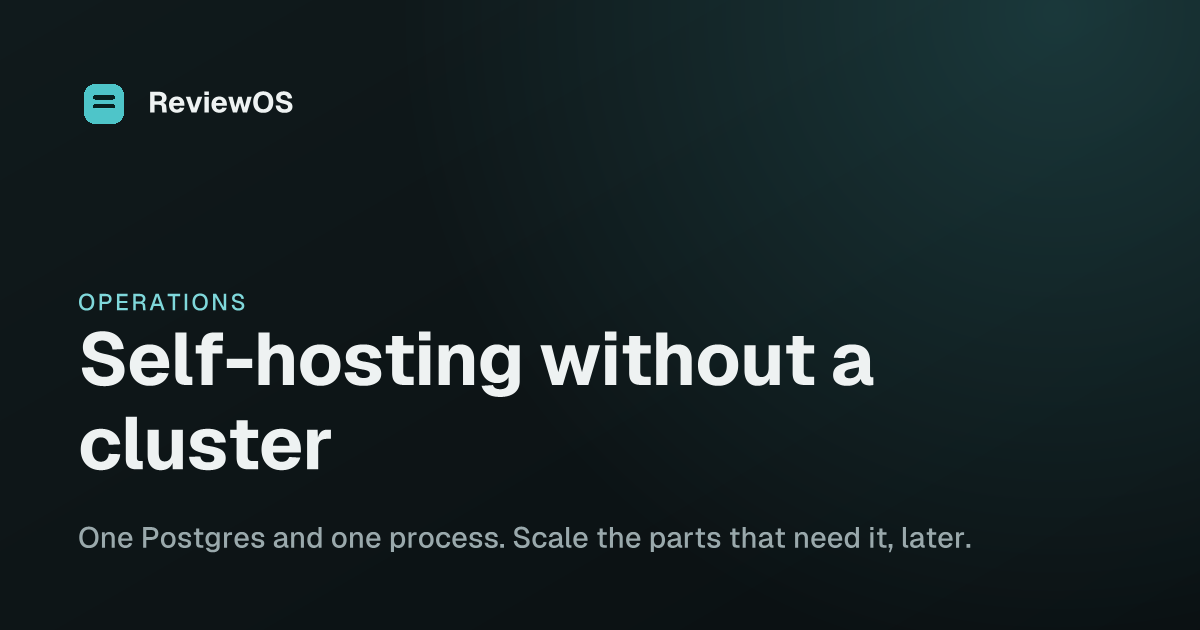
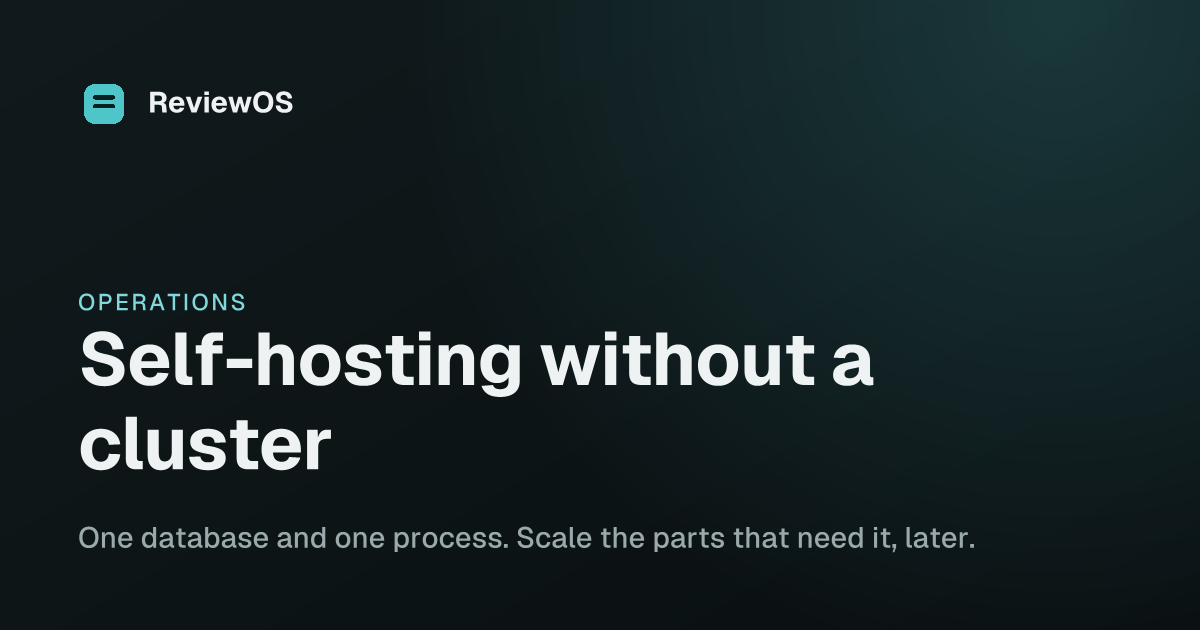
feat(profile): migrate GitHub profile with the operator Git identity

Changed region(s): [[0.1233, 0.8143, 0.8017, 0.8746]]

diff --git a/app/Actions/Profile/seed.ts b/app/Actions/Profile/seed.ts
@@ -24,6 +24,8 @@
 import { db } from '@stacksjs/database'
 import { initBare, runGit } from '../Git/git'
 import { repositoryPath } from '../Git/storage'
+import type { CommitAuthor } from '../Git/write'
+import { authorEnvironment } from '../Git/write'
 
 /** What the seed did, in the words the command prints. */
 export type SeedOutcome =
@@ -40,6 +42,8 @@ export interface SeedRequest {
   /** The repository name. `.profile` is the one the reader asks for first. */
   name?: string
   message?: string
+  /** Explicit operator identity; unattended instance seeding defaults to ReviewOS. */
+  author?: CommitAuthor
 }
 
 export async function seedProfile(request: SeedRequest): Promise<SeedOutcome> {
@@ -85,7 +89,7 @@ export async function seedProfile(request: SeedRequest): Promise<SeedOutcome> {
   if (refs.ok && refs.stdout.trim())
     return { done: 'already-written', repository: label }
 
-  const commit = await writeInitialCommit(diskPath, request.content, request.message ?? 'the page this owner shows')
+  const commit = await writeInitialCommit(diskPath, request.content, request.message ?? 'the page this owner shows', request.author)
 
   if (!commit.ok)
     return { done: 'failed', repository: label, reason: commit.reason }
@@ -125,6 +129,7 @@ async function writeInitialCommit(
   diskPath: string,
   content: string,
   message: string,
+  author: CommitAuthor = { name: 'ReviewOS', email: 'noreply@reviewos.org' },
 ): Promise<{ ok: true, sha: string } | { ok: false, reason: string }> {
   const blob = await runGit(diskPath, ['hash-object', '-w', '--stdin'], { input: content })
 
@@ -136,12 +141,7 @@ async function writeInitialCommit(
   if (!tree.ok)
     return { ok: false, reason: tree.stderr || 'could not write the tree' }
 
-  const identity = {
-    GIT_AUTHOR_NAME: 'ReviewOS',
-    GIT_AUTHOR_EMAIL: 'noreply@reviewos.org',
-    GIT_COMMITTER_NAME: 'ReviewOS',
-    GIT_COMMITTER_EMAIL: 'noreply@reviewos.org',
-  }
+  const identity = authorEnvironment(author)
 
   const commit = await runGit(diskPath, ['commit-tree', tree.stdout.trim(), '-m', message], { env: identity })
 

diff --git a/app/Commands/ProfileSeed.ts b/app/Commands/ProfileSeed.ts
@@ -22,7 +22,10 @@ export default function (cli: CLI) {
     .option('--owner <handle>', 'The organization or user whose page this is')
     .option('--file <path>', 'The markdown to commit as README.md')
     .option('--name <name>', 'The repository to write it in', { default: '.profile' })
-    .action(async (options: { owner?: string, file?: string, name?: string }) => {
+    .option('--author-name <name>', 'Git author and committer name for an operator-created profile')
+    .option('--author-email <email>', 'Git author and committer email for an operator-created profile')
+    .option('--message <message>', 'The initial profile commit message')
+    .action(async (options: { owner?: string, file?: string, name?: string, authorName?: string, authorEmail?: string, message?: string }) => {
       try {
         const owner = String(options.owner ?? '').trim()
         const file = String(options.file ?? '').trim()
@@ -32,10 +35,15 @@ export default function (cli: CLI) {
           process.exit(1)
         }
 
+        if (Boolean(options.authorName?.trim()) !== Boolean(options.authorEmail?.trim()))
+          throw new Error('Supply both --author-name and --author-email')
+
         const outcome = await seedProfile({
           owner,
           name: options.name,
           content: readFileSync(file, 'utf8'),
+          author: options.authorName && options.authorEmail ? { name: options.authorName.trim(), email: options.authorEmail.trim() } : undefined,
+          message: options.message?.trim() || undefined,
         })
 
         if (outcome.done === 'seeded')

diff --git a/tests/unit/profile-seed.test.ts b/tests/unit/profile-seed.test.ts
@@ -62,4 +62,17 @@ describe('the commit a first page is', () => {
     expect(git('symbolic-ref', 'HEAD').trim()).toBe('refs/heads/main')
     expect(git('rev-parse', 'refs/heads/main').trim()).toBe(git('rev-parse', 'HEAD').trim())
   })
+
+  test('preserves an imported README and the explicit operator identity without coauthors', async () => {
+    const personal = join(work, 'personal.git')
+    spawnSync('git', ['init', '-q', '--bare', '--initial-branch=main', personal], { encoding: 'utf8' })
+    const { writeInitialCommitForTest } = await import('../../app/Actions/Profile/seed')
+    const content = '# Chris\n\nBuilding open source. 👋🏼\n'
+    const written = await writeInitialCommitForTest(personal, content, 'docs: migrate GitHub profile README', { name: 'Chris Breuer', email: 'chris@example.com' })
+    expect(written.ok).toBe(true)
+    const read = (...args: string[]) => spawnSync('git', ['--git-dir', personal, ...args], { encoding: 'utf8' }).stdout
+    expect(read('show', 'HEAD:README.md')).toBe(content)
+    expect(read('show', '-s', '--format=%an <%ae>%n%cn <%ce>', 'HEAD').trim()).toBe('Chris Breuer <chris@example.com>\nChris Breuer <chris@example.com>')
+    expect(read('show', '-s', '--format=%B', 'HEAD')).not.toContain('Co-authored-by:')
+  })
 })

diff --git a/tests/e2e/workflow-api.test.ts b/tests/e2e/workflow-api.test.ts
@@ -1226,7 +1226,7 @@ describe('the environment a job inherits', () => {
       return
 
     await db.updateTable('workflow_versions')
-      .set({ permissions: JSON.stringify({ 'contents': 'read', 'packages': 'write' }) } as any)
+      .set({ permissions: JSON.stringify({ 'contents': 'read', 'packages': 'write', 'attestations': 'write' }) } as any)
       .where('id', '=', created.versionId)
       .execute()
 
@@ -1236,11 +1236,11 @@ describe('the environment a job inherits', () => {
     const { body } = await api(`/api/repos/workflow-runs/show?owner=${created.handle}&repo=${created.name}&number=${number}`)
     const job = body.workflow_run.jobs.find((row: any) => row.job_id === 'test')
 
-    expect(job.permissions.scopes).toEqual({ contents: 'read' })
+    expect(job.permissions.scopes).toEqual({ contents: 'read', packages: 'write' })
     expect(job.permissions.from).toBe('workflow')
     // Named rather than dropped: a token that silently grants nothing is a
     // workflow that fails with no explanation.
-    expect(job.permissions.unsupported).toEqual(['packages'])
+    expect(job.permissions.unsupported).toEqual(['attestations'])
   })
 
   test('and the shell and directory its steps inherit, or the runner\'s choice', async () => {

diff --git a/config/cloud.ts b/config/cloud.ts
@@ -929,6 +929,10 @@ export const tsCloud: TsCloudConfig = {
          * this instance does not have is skipped rather than fatal.
          */
         'bun node_modules/@stacksjs/buddy/dist/cli.js profile:seed --owner reviewos --file profile/README.md',
+        // The personal profile is the exact Markdown GitHub publishes from
+        // chrisbbreuer/.github/profile/README.md. Seed it once with the
+        // operator's Git identity; subsequent releases preserve local edits.
+        'bun node_modules/@stacksjs/buddy/dist/cli.js profile:seed --owner chris --file profile/chris/README.md --author-name "Chris Breuer" --author-email chrisbreuer93@gmail.com --message "docs: migrate GitHub profile README"',
         // The documentation site, built into `dist/docs` where
         // `resources/views/docs/` reads it.
         //

diff --git a/config/code-style.ts b/config/code-style.ts
@@ -74,6 +74,9 @@ const config: PickierOptions = {
   },
 
   ignores: [
+    // An exact upstream profile snapshot, including its author's Markdown
+    // punctuation. Formatting it would change the content being migrated.
+    '**/profile/chris/README.md',
     '**/fixtures/**',
     '**/coverage/**',
     '**/temp/**',

diff --git a/profile/chris/README.md b/profile/chris/README.md
@@ -1,0 +1,53 @@
+  [![Stand With Ukraine](https://raw.githubusercontent.com/vshymanskyy/StandWithUkraine/main/badges/StandWithUkraine.svg)](https://stand-with-ukraine.pp.ua)
+
+## Hi, everyone! 👋🏼
+
+My name is Chris. I am in my thirties & a passionate open-source developer who loves to travel the world, learn about new cultures, watch sports & eat good food.
+
+### A few highlights...
+
+#### Frameworks
+
+- [Stacks](https://github.com/stacksjs/stacks) - Develop powerful apps, clouds & framework-agnostic libraries—faster.
+- [stx](https://github.com/stacksjs/stx) - A fast & powerful UI framework. _Templating inspired by Laravel Blade & Vue._
+- [BunPress](https://github.com/stacksjs/bunpress) - Modern & performant documentation-needs covered.
+- [Clapp](https://github.com/stacksjs/clapp) - A modern framework to build powerful & pretty CLI apps.
+- [Craft](https://github.com/home-lang/craft) - Performant, native desktop & mobile apps with web languages.
+- [Crosswind](https://github.com/cwcss/crosswind) - A Tailwind-like utility-first CSS framework.
+
+#### Package Manager & Registry
+
+- [Pantry](https://github.com/pantry-pm/pantry) - Performant system & project dependency management. _Similar to Homebrew, just faster._
+
+#### Sponsorware
+
+- [Stacks Dashboard](https://github.com/stacksjs/stacks) - The Stacks Dashboard. _For developers, and their clients._
+- [Stacks Raycast](https://github.com/stacksjs/stacks) - Stacks _(and Buddy)_ integrated into Raycast.
+
+#### Apps
+
+- [Barista](https://github.com/stacksjs/barista) - A lightweight macOS utility that serves up a perfectly organized menubar.
+- [Hush](https://github.com/stacksjs/hush) - Lightweight macOS utility that ensures notifications are suppressed during meetings.
+- [Pomodoro](https://github.com/stacksjs/pomodoro) - Minimal, functional, yet simple Pomodoro menubar app, to help stay focussed. _For Mac._
+
+#### Libraries & CLIs
+
+[besting](https://github.com/stacksjs/besting), [buddy-bot](https://github.com/stacksjs/buddy), [bumpx](https://github.com/stacksjs/bumpx), [bun-git-hooks](https://github.com/stacksjs/bun-git-hooks), [bun-query-builder](https://github.com/stacksjs/bun-query-builder), [bun-queue](https://github.com/stacksjs/queue), [bun-router](https://github.com/stacksjs/bun-router), [bunfig](https://github.com/stacksjs/bunfig), [clarity](https://github.com/stacksjs/clarity), [dtsx](https://github.com/stacksjs/dtsx), [gitit](https://github.com/stacksjs/gitit), [gitlint](https://github.com/stacksjs/gitlint), [httx](https://github.com/stacksjs/httx), [localtunnels](https://github.com/stacksjs/localtunnels), [logsmith](https://github.com/stacksjs/logsmith), [pickier](https://github.com/stacksjs/pickier), [post](https://github.com/stacksjs/post), [tlsx](https://github.com/stacksjs/tlsx), [ts-aax](https://github.com/stacksjs/ts-aax), [ts-analytics](https://github.com/stacksjs/ts-analytics), [ts-audio](https://github.com/stacksjs/ts-audio), [ts-avif](https://github.com/stacksjs/ts-avif), [ts-backups](https://github.com/stacksjs/ts-backups), [ts-bmp](https://github.com/stacksjs/ts-bmp), [ts-broadcasting](https://github.com/stacksjs/ts-broadcasting), [ts-cache](https://github.com/stacksjs/ts-cache), [ts-clone](https://github.com/stacksjs/ts-clone), [ts-cloud](https://github.com/stacksjs/ts-cloud), [ts-collect](https://github.com/stacksjs/ts-collect), [ts-countries](https://github.com/stacksjs/ts-countries), [ts-datetime](https://github.com/stacksjs/ts-datetime), [ts-dns](https://github.com/stacksjs/ts-dns), [ts-error-handling](https://github.com/stacksjs/ts-error-handling), [ts-gif](https://github.com/stacksjs/ts-gif), [ts-i18n](https://github.com/stacksjs/ts-i18n), [ts-images](https://github.com/stacksjs/ts-images), [ts-inputs](https://github.com/stacksjs/ts-inputs), [ts-jpeg](https://github.com/stacksjs/ts-jpeg), [ts-markdown](https://github.com/stacksjs/ts-markdown), [ts-maps](https://github.com/stacksjs/ts-maps), [ts-medium-editor](https://github.com/stacksjs/ts-medium-editor), [ts-mocker](https://github.com/stacksjs/ts-mocker), [ts-ndarray](https://github.com/stacksjs/ts-ndarray), [ts-numbers](https://github.com/stacksjs/ts-numbers), [ts-open-api](https://github.com/stacksjs/ts-open-api), [ts-pantry](https://github.com/stacksjs/ts-pantry), [ts-png](https://github.com/stacksjs/ts-png), [ts-punycode](https://github.com/stacksjs/ts-punycode), [ts-qr-codes](https://github.com/stacksjs/ts-qr-codes), [ts-rate-limiter](https://github.com/stacksjs/ts-rate-limiter), [ts-reverse-proxy](https://github.com/stacksjs/ts-reverse-proxy), [ts-security](https://github.com/stacksjs/ts-security), [ts-slug](https://github.com/stacksjs/ts-slug), [ts-spreadsheets](https://github.com/stacksjs/ts-spreadsheets), [ts-svg](https://github.com/stacksjs/ts-svg), [ts-syntax-highlighter](https://github.com/stacksjs/ts-syntax-highlighter), [ts-validation](https://github.com/stacksjs/ts-validation), [ts-vat](https://github.com/stacksjs/ts-vat), [ts-videos](https://github.com/stacksjs/ts-videos), [ts-video-player](https://github.com/stacksjs/ts-video-player), [ts-watches](https://github.com/stacksjs/ts-watches), [ts-webp](https://github.com/stacksjs/ts-webp), [ts-web-scraper](https://github.com/stacksjs/ts-web-scraper), [very-happy-dom](https://github.com/stacksjs/very-happy-dom), [zig-benchmarks](https://github.com/zig-utils/zig-benchmarks), [zig-bump](https://github.com/zig-utils/zig-bump), [zig-changelog](https://github.com/zig-utils/zig-changelog), [zig-cli](https://github.com/zig-utils/zig-cli), [zig-config](https://github.com/zig-utils/zig-config), [zig-crosswind](https://github.com/cwcss/zig-crosswind), [zig-error-handling](https://github.com/zig-utils/zig-error-handling), [zig-faker](https://github.com/zig-utils/zig-faker), [zig-gc](https://github.com/zig-utils/zig-gc), [zig-injection](https://github.com/zig-utils/zig-injection), [zig-js](https://github.com/zig-utils/zig-js), [zig-regex](https://github.com/zig-utils/zig-regex), [zig-search-engine](https://github.com/zig-utils/zig-search-engine), [zig-starter](https://github.com/zig-utils/zig-starter), [zig-test-framework](https://github.com/zig-utils/zig-test-framework), [zig-tls](https://github.com/zig-utils/zig-tls), [zig-waf](https://github.com/zig-utils/zig-waf)
+
+#### Plugins & Actions
+
+[action-launchpad](https://github.com/stacksjs/launchpad), [action-logsmith](https://github.com/stacksjs/logsmith), [action-releaser](https://github.com/stacksjs/action-releaser), [bun-plugin-auto-imports](https://github.com/stacksjs/bun-plugin-auto-imports), [bun-plugin-dotenvx](https://github.com/stacksjs/bun-plugin-dotenvx), [bun-plugin-dtsx](https://github.com/stacksjs/bun-plugin-dtsx), [bun-plugin-rpx](https://github.com/stacksjs/bun-plugin-rpx), [bun-plugin-tlsx](https://github.com/stacksjs/bun-plugin-tlsx), [bun-plugin-unocss](https://github.com/stacksjs/bun-plugin-unocss), [vite-plugin-dotenvx](https://github.com/stacksjs/vite-plugin-dotenvx), [vite-plugin-layouts](https://github.com/stacksjs/vite-plugin-layouts), [vite-plugin-local](https://github.com/stacksjs/vite-plugin-local), [vite-plugin-rpx](https://github.com/stacksjs/rpx), [vite-plugin-tauri](https://github.com/stacksjs/vite-plugin-tauri), [vite-plugin-tlsx](https://github.com/stacksjs/tlsx)
+
+#### Templates
+
+[better-dx](https://github.com/stacksjs/better-dx), [projects](https://github.com/stacksjs/projects), [ts-starter](https://github.com/stacksjs/ts-starter), [ts-starter-monorepo](https://github.com/stacksjs/ts-starter-monorepo)
+
+___
+
+### Current Focus
+
+- [_Stacks v1.0_](https://github.com/stacksjs/stacks)
+
+Connect with me here, on Discord, or on Bluesky—would love to hear from you!
+
+_Oh, and say hi to our mascot & CLI inspiration, [Buddy](https://www.instagram.com/somebuddyspecial/)—the doggie in crime._

diff --git a/docs/todo/index.md b/docs/todo/index.md
@@ -15,7 +15,7 @@ grows, so a phase getting *longer* while it is worked on is normal and honest.
 | Phase | What it covers | State |
 |---|---|---|
 | [00 - Bootstrap](./00-bootstrap.md) | Scaffold, Postgres, tooling, agent setup | Complete (68/68) |
-| [01 - Foundation](./01-foundation.md) | Users, organizations, teams, tokens, keys | Done (81/81) |
+| [01 - Foundation](./01-foundation.md) | Users, organizations, teams, tokens, keys | Done (82/82) |
 | [02 - Git hosting](./02-git-hosting.md) | Repositories on disk, smart HTTP, code browsing | Done (139/139) |
 | [03 - Issues](./03-issues.md) | Issues, comments, labels, milestones, markdown | Done (43/43) |
 | [04 - Reviews](./04-reviews.md) | Pull requests, reviews, diffs, merging, stacks | Done (106/106) |
@@ -33,7 +33,7 @@ grows, so a phase getting *longer* while it is worked on is normal and honest.
 | [16 - Single-node hardening](./16-hardening-scale.md) | Bounded buffers, backpressure, process ceilings, pantry-first infra | Complete (37/37) |
 | [17 - Database scale-out](./17-database.md) | Postgres to MySQL, Vitess for sharded instances | Complete (15/15) |
 | [18 - Storage scale-out](./18-scale-out.md) | Push WAL, blob store, ref ledger, repos as cache | Complete (25/25) |
-| [19 - Native repository tools](./19-native-tools.md) | Pantry registry, BunPress wiki, issue project boards | Complete (19/19) |
+| [19 - Native repository tools](./19-native-tools.md) | Pantry registry, BunPress wiki, issue project boards | Complete (20/20) |
 
 Phases 16 through 18 were written after reading Cursor's
 [Git at any scale](https://cursor.com/blog/git-at-any-scale) and auditing this codebase against it.

diff --git a/docs/todo/01-foundation.md b/docs/todo/01-foundation.md
@@ -819,3 +819,5 @@ The half of this nobody builds, and the half that decides whether an instance is
 - [x] Associate operator-verified secondary emails with one account for sign-in, second factors and commit attribution.
 
 - [x] Show accepted organizations on user profiles with private membership by default and an explicit public visibility setting. Let members show or hide their own membership from organization settings, support publishing discovered organizations with `github:sync --public-organizations`, and exercise the rendered profile and settings form with browser cookies and CSRF. Regenerate database types for MySQL and accept the driver's numeric flags at raw-query boundaries.
+
+- [x] Migrate the linked personal GitHub profile into `chris/.profile/README.md` with the configured operator as both Git author and committer, preserve the upstream Markdown byte for byte, and verify every available organization profile against its GitHub blob. Let `profile:seed` take an explicit author without changing unattended instance seeding or overwriting existing profiles.

diff --git a/docs/todo/19-native-tools.md b/docs/todo/19-native-tools.md
@@ -55,3 +55,5 @@ The complete application unit suite passes (5,203 tests, two existing skips), al
 router, session, CSRF and token regressions. The native-tools suite also passes against a real Pantry
 registry build. Lint, type checks, documentation builds, light/dark layouts and the mobile board and
 Markdown preview were verified.
+
+- [x] Refresh the generated self-hosting social card and update workflow permission introspection coverage to grant native package publishing while still reporting unsupported attestations.
